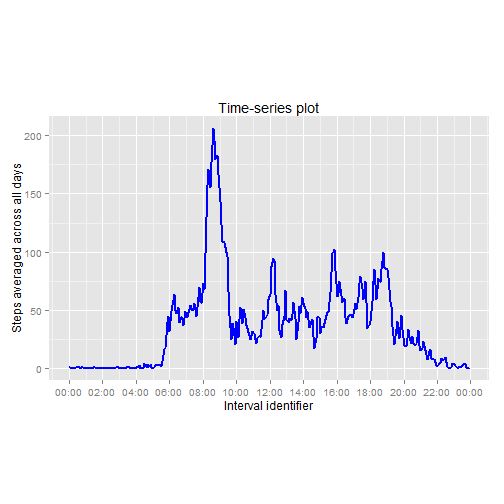
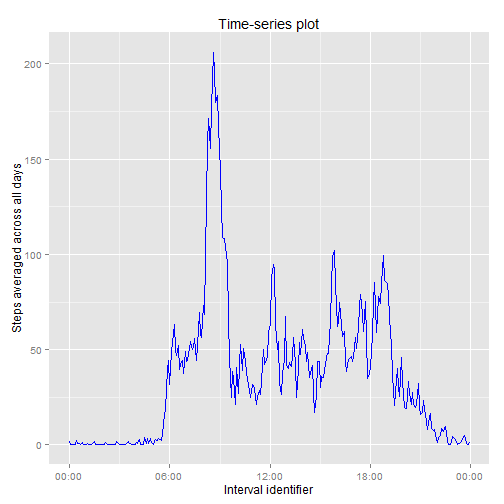
submission

diff --git a/PA1_template.html b/PA1_template.html
@@ -335,7 +335,7 @@ median_steps_date
 <p>This is done as follows:<br/>
 1. Group the data by the interval identifier.<br/>
 2. Find the mean of the steps for each identifier across all the days.<br/>
-3. Plot with interval on x-axis and the means on the y-axis. (The breaks are shown at intervals of 2 hours.)</p>
+3. Plot with interval on x-axis and the means on the y-axis.</p>
 
 <pre><code class="r">by_interval &lt;- group_by(activitydata_tbldf_dummy,interval_dummy)
 
@@ -343,14 +343,13 @@ mean_steps_2 &lt;- summarise(by_interval, steps_mean_interval = mean(steps,na.rm
 mean_steps_interval &lt;- select(mean_steps_2, steps_mean_interval)
 
 h &lt;- ggplot(data = mean_steps_2, aes(x = interval_dummy, y = steps_mean_interval))
-h + geom_line(col = &quot;blue&quot;, size = 0.75) + 
+h + geom_line(col = &quot;blue&quot;, size = 0.7) + 
     labs(title = &quot;Time-series plot&quot;) +
     labs(x = &quot;Interval identifier&quot;, y = &quot;Steps averaged across all days&quot;) + 
-    scale_x_datetime(labels = date_format(&quot;%H:%M&quot;), breaks = date_breaks(&quot;2 hour&quot;)) + 
-    theme(aspect.ratio = 0.60)
+    scale_x_datetime(labels = date_format(&quot;%H:%M&quot;))
 </code></pre>
 
[2 lines of base64/hex data omitted]
 
 <h3>Part 2: Finding the interval with the maximum mean steps</h3>
 
@@ -493,21 +492,20 @@ weekpos_df &lt;- select(weekpos_df, -day)
 <p>This is done as follows:<br/>
 1. Group the data by &ldquo;week_day_position&rdquo; and &ldquo;interval_dummy&rdquo;.<br/>
 2. Find the mean of the steps for each identifier across all the weekdays and weekends.<br/>
-3. Plot with interval on x-axis and the means on the y-axis with two facets; one for &ldquo;Weekday&rdquo;, another for &ldquo;Weekend&rdquo;. (The breaks are shown at intervals of 2 hours.)   </p>
+3. Plot with interval on x-axis and the means on the y-axis with two facets; one for &ldquo;Weekday&rdquo;, another for &ldquo;Weekend&rdquo;. </p>
 
 <pre><code class="r">by_interval_weekpos &lt;- group_by(weekpos_df, week_day_position, interval_dummy)
 total_steps_weekpos &lt;- summarise(by_interval_weekpos, steps_day_weekpos = mean(steps))
 
 j &lt;- ggplot(data = total_steps_weekpos, aes(x = interval_dummy, y = steps_day_weekpos))
-j + geom_line(color = &quot;blue&quot;, size = 0.75) + 
+j + geom_line(color = &quot;blue&quot;, size = 0.7) + 
     facet_grid(week_day_position ~.) + 
-    scale_x_datetime(labels = date_format(&quot;%H:%M&quot;), breaks = date_breaks(&quot;2 hour&quot;)) + 
+    scale_x_datetime(labels = date_format(&quot;%H:%M&quot;)) + 
     labs(title = &quot;Time-series plot&quot;) + 
-    labs(x = &quot;Interval identifier&quot;, y = &quot;Steps averaged across all days&quot;) +
-    theme(aspect.ratio = 0.35)
+    labs(x = &quot;Interval identifier&quot;, y = &quot;Steps averaged across all days&quot;)
 </code></pre>
 
[2 lines of base64/hex data omitted]
 
 <h4>Differences between activity pattern for weekdays and weekends</h4>
 

diff --git a/PA1_template.md b/PA1_template.md
@@ -148,7 +148,7 @@ Thus the `mean` and `median` of the total steps per day are **1.0766189 &times; 
 This is done as follows:  
 1. Group the data by the interval identifier.  
 2. Find the mean of the steps for each identifier across all the days.  
-3. Plot with interval on x-axis and the means on the y-axis. (The breaks are shown at intervals of 2 hours.)
+3. Plot with interval on x-axis and the means on the y-axis.
 
 
 ```r
@@ -158,11 +158,10 @@ mean_steps_2 <- summarise(by_interval, steps_mean_interval = mean(steps,na.rm = 
 mean_steps_interval <- select(mean_steps_2, steps_mean_interval)
 
 h <- ggplot(data = mean_steps_2, aes(x = interval_dummy, y = steps_mean_interval))
-h + geom_line(col = "blue", size = 0.75) + 
+h + geom_line(col = "blue", size = 0.7) + 
     labs(title = "Time-series plot") +
     labs(x = "Interval identifier", y = "Steps averaged across all days") + 
-    scale_x_datetime(labels = date_format("%H:%M"), breaks = date_breaks("2 hour")) + 
-    theme(aspect.ratio = 0.60)
+    scale_x_datetime(labels = date_format("%H:%M"))
 ```
 
 ![plot of chunk unnamed-chunk-7](figure/unnamed-chunk-7-1.png) 
@@ -331,7 +330,7 @@ weekpos_df <- select(weekpos_df, -day)
 This is done as follows:  
 1. Group the data by "week_day_position" and "interval_dummy".  
 2. Find the mean of the steps for each identifier across all the weekdays and weekends.   
-3. Plot with interval on x-axis and the means on the y-axis with two facets; one for "Weekday", another for "Weekend". (The breaks are shown at intervals of 2 hours.)   
+3. Plot with interval on x-axis and the means on the y-axis with two facets; one for "Weekday", another for "Weekend". 
 
 
 ```r
@@ -339,12 +338,11 @@ by_interval_weekpos <- group_by(weekpos_df, week_day_position, interval_dummy)
 total_steps_weekpos <- summarise(by_interval_weekpos, steps_day_weekpos = mean(steps))
 
 j <- ggplot(data = total_steps_weekpos, aes(x = interval_dummy, y = steps_day_weekpos))
-j + geom_line(color = "blue", size = 0.75) + 
+j + geom_line(color = "blue", size = 0.7) + 
     facet_grid(week_day_position ~.) + 
-    scale_x_datetime(labels = date_format("%H:%M"), breaks = date_breaks("2 hour")) + 
+    scale_x_datetime(labels = date_format("%H:%M")) + 
     labs(title = "Time-series plot") + 
-    labs(x = "Interval identifier", y = "Steps averaged across all days") +
-    theme(aspect.ratio = 0.35)
+    labs(x = "Interval identifier", y = "Steps averaged across all days")
 ```
 
 ![plot of chunk unnamed-chunk-16](figure/unnamed-chunk-16-1.png) 
